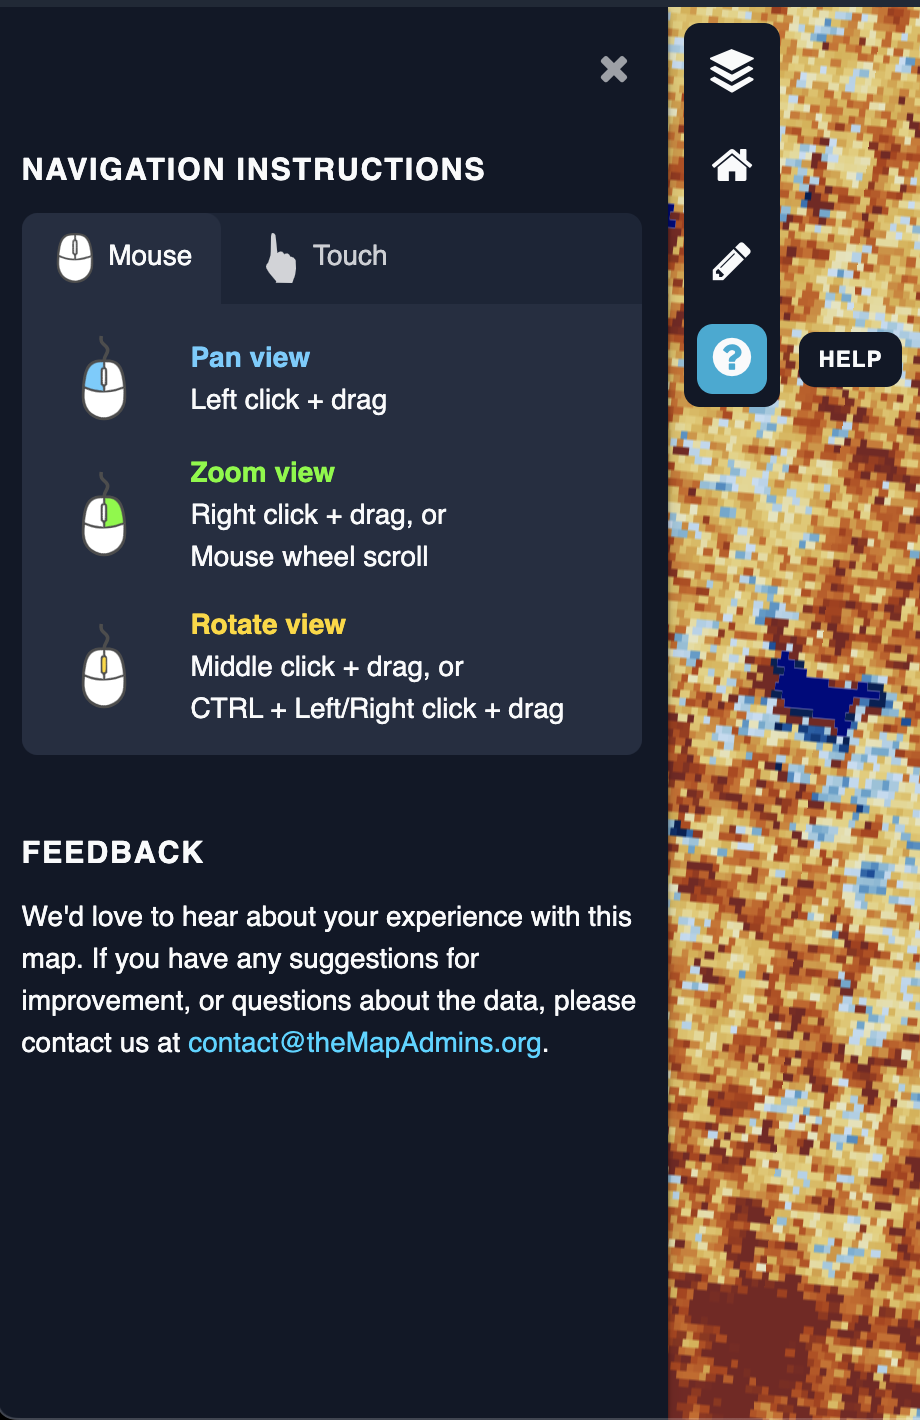
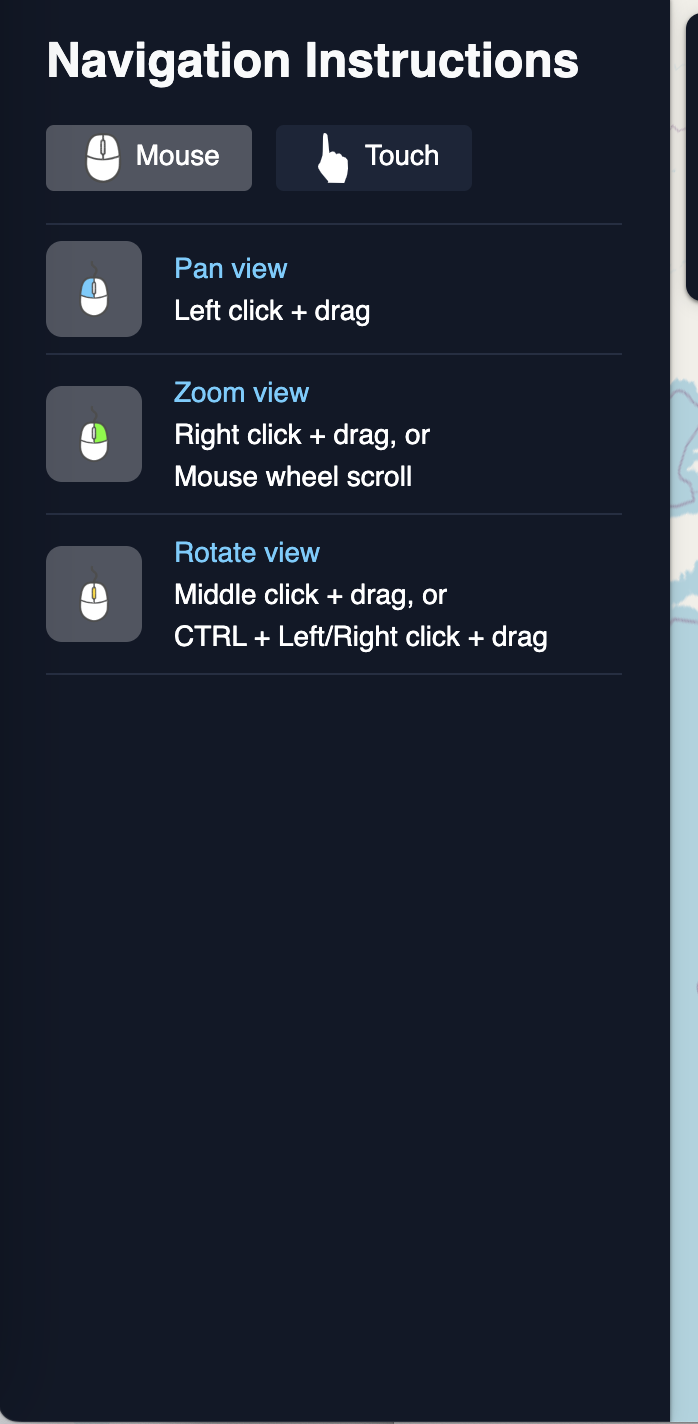
Toolbar Panels Polish: Navigation help panel tweaks

diff --git a/src/css/map-view.css b/src/css/map-view.css
@@ -1313,10 +1313,8 @@ other class: .ui-slider-range */
   background-color: var(--map-col-content-bkg-highlight, var(--map-col-bkg-lighter__deprecate));
   border-radius: var(--map-border-radius-small);
   color: var(--map-col-text-label);
-
-  padding: 0.65rem 0.9rem;
-  border-bottom-left-radius: 0;
-  border-bottom-right-radius: 0;
+  margin-right: .5rem;
+  padding: 0.25rem 1rem;
 }
 
 .nav-help .map-view__button--active {
@@ -1330,15 +1328,16 @@ other class: .ui-slider-range */
   background: var(--map-col-buttons-bkg-hover, #505561);
   border-radius: var(--map-border-radius-big);
   height: 3rem;
-  width: 4.375rem;
+  padding: .5rem;
+  width: 3rem;
 }
 
 .nav-help__instructions {
   border-top: 1px solid var(--map-col-section-divider, var(--map-col-bkg-lightest__deprecate));
   display: grid;
+  margin: 1rem 0;
+  padding: 0;
   width: 100%;
-  gap: 0.8rem;
-  padding: 0.8rem 0.4rem;
 }
 
 .nav-help__instructions.hidden {
@@ -1356,9 +1355,10 @@ other class: .ui-slider-range */
 .nav-help__instruction {
   border-bottom: 1px solid var(--map-col-item-divider, var(--map-col-bkg-lightest__deprecate));
   display: grid;
-  grid-template-columns: 4.375rem auto;
-  gap: 0.5rem;
+  grid-template-columns: 3rem auto;
+  gap: 1rem;
   align-items: center;
+  padding: .5rem 0;
 }
 
 .map-help-panel__section:not(:first-child) {
